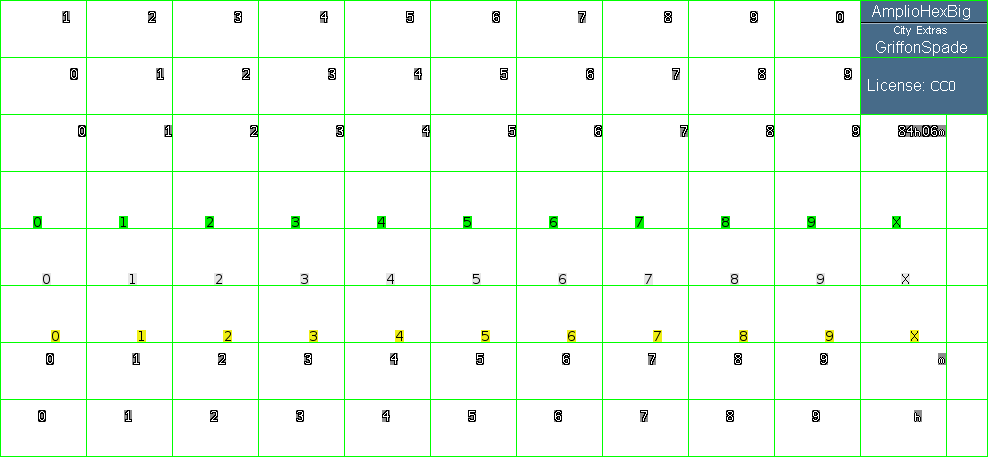
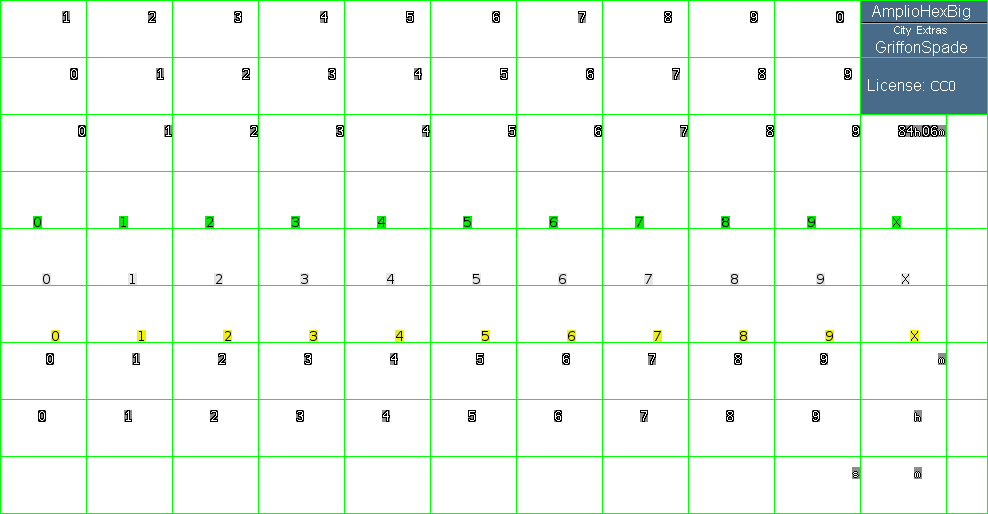
Switch goto sprites when movement is sub-minute

diff --git a/client/tileset/tilespec.cpp b/client/tileset/tilespec.cpp
@@ -215,7 +215,7 @@ struct named_sprites {
   struct {
     struct {
       QPixmap *specific;
-      QPixmap *turn_min, *turn_hour;
+      QPixmap *turn_min, *turn_hour, *turn_min_short, *turn_hour_short;
       QPixmap *turns_min[NUM_TILES_DIGITS];
       QPixmap *turns_min_tens[NUM_TILES_DIGITS];
       QPixmap *turns_hour[NUM_TILES_DIGITS];
@@ -2703,10 +2703,16 @@ static void tileset_lookup_sprite_tags(struct tileset *t)
   SET_SPRITE(path.s[GTS_MP_LEFT].turn_min, "turn_min");
   SET_SPRITE(path.s[GTS_TURN_STEP].turn_min, "turn_min");
   SET_SPRITE(path.s[GTS_EXHAUSTED_MP].turn_min, "turn_min");
+  SET_SPRITE(path.s[GTS_MP_LEFT].turn_min_short, "turn_min_short");
+  SET_SPRITE(path.s[GTS_TURN_STEP].turn_min_short, "turn_min_short");
+  SET_SPRITE(path.s[GTS_EXHAUSTED_MP].turn_min_short, "turn_min_short");
 
   SET_SPRITE(path.s[GTS_MP_LEFT].turn_hour, "turn_hour");
   SET_SPRITE(path.s[GTS_TURN_STEP].turn_hour, "turn_hour");
   SET_SPRITE(path.s[GTS_EXHAUSTED_MP].turn_hour, "turn_hour");
+  SET_SPRITE(path.s[GTS_MP_LEFT].turn_hour_short, "turn_hour_short");
+  SET_SPRITE(path.s[GTS_TURN_STEP].turn_hour_short, "turn_hour_short");
+  SET_SPRITE(path.s[GTS_EXHAUSTED_MP].turn_hour_short, "turn_hour_short");
 
   for (i = 0; i < NUM_TILES_DIGITS; i++) {
     buffer = QStringLiteral("city.size_%1").arg(QString::number(i));
@@ -4441,31 +4447,39 @@ static void fill_goto_sprite_array(const struct tileset *t,
       // Debug: Make length multiples of 23 minutes.
       // length *= 23;
 
-      log_warning("length: %d", length);
+      //log_warning("length: %d", length);
+      // Length will be multiplied by the timeout property
+      if(length > 0) {
+        length *= game.info.timeout;
+      }
 
       // Separate in minutes and hours
-      int length_mins = length % 60;
-      length /= 60;
+      if(game.info.timeout >= 60) {
+        length /= 60;
+      }
 
-      sprite = t->sprites.path.s[state].turn_min;
+      int length_lower = length % 60;
+      int length_upper = length / 60;
+
+      sprite = game.info.timeout >= 60 ? t->sprites.path.s[state].turn_min : t->sprites.path.s[state].turn_min_short;
       sprs.emplace_back(t, sprite);
-      sprite = t->sprites.path.s[state].turns_min[length_mins % 10];
+      sprite = t->sprites.path.s[state].turns_min[length_lower % 10];
       sprs.emplace_back(t, sprite);
-      if (length_mins >= 10) {
-        sprite = t->sprites.path.s[state].turns_min_tens[(length_mins / 10) % 10];
+      if (length_lower >= 10) {
+        sprite = t->sprites.path.s[state].turns_min_tens[(length_lower / 10) % 10];
         sprs.emplace_back(t, sprite);
       }
-      if (length > 0) {
-        sprite = t->sprites.path.s[state].turn_hour;
+      if (length_upper > 0) {
+        sprite = game.info.timeout >= 60 ? t->sprites.path.s[state].turn_hour : t->sprites.path.s[state].turn_hour_short;
         sprs.emplace_back(t, sprite);
-        if (length_mins < 10) {
+        if (length_lower < 10) {
           sprite = t->sprites.path.s[state].turns_min_tens[0];
           sprs.emplace_back(t, sprite);
         }
-        sprite = t->sprites.path.s[state].turns_hour[length % 10];
+        sprite = t->sprites.path.s[state].turns_hour[length_upper % 10];
         sprs.emplace_back(t, sprite);
-        if (length >= 10) {
-          sprite = t->sprites.path.s[state].turns_hour_tens[(length / 10) % 10];
+        if (length_upper >= 10) {
+          sprite = t->sprites.path.s[state].turns_hour_tens[(length_upper / 10) % 10];
           sprs.emplace_back(t, sprite);
         }
       }
